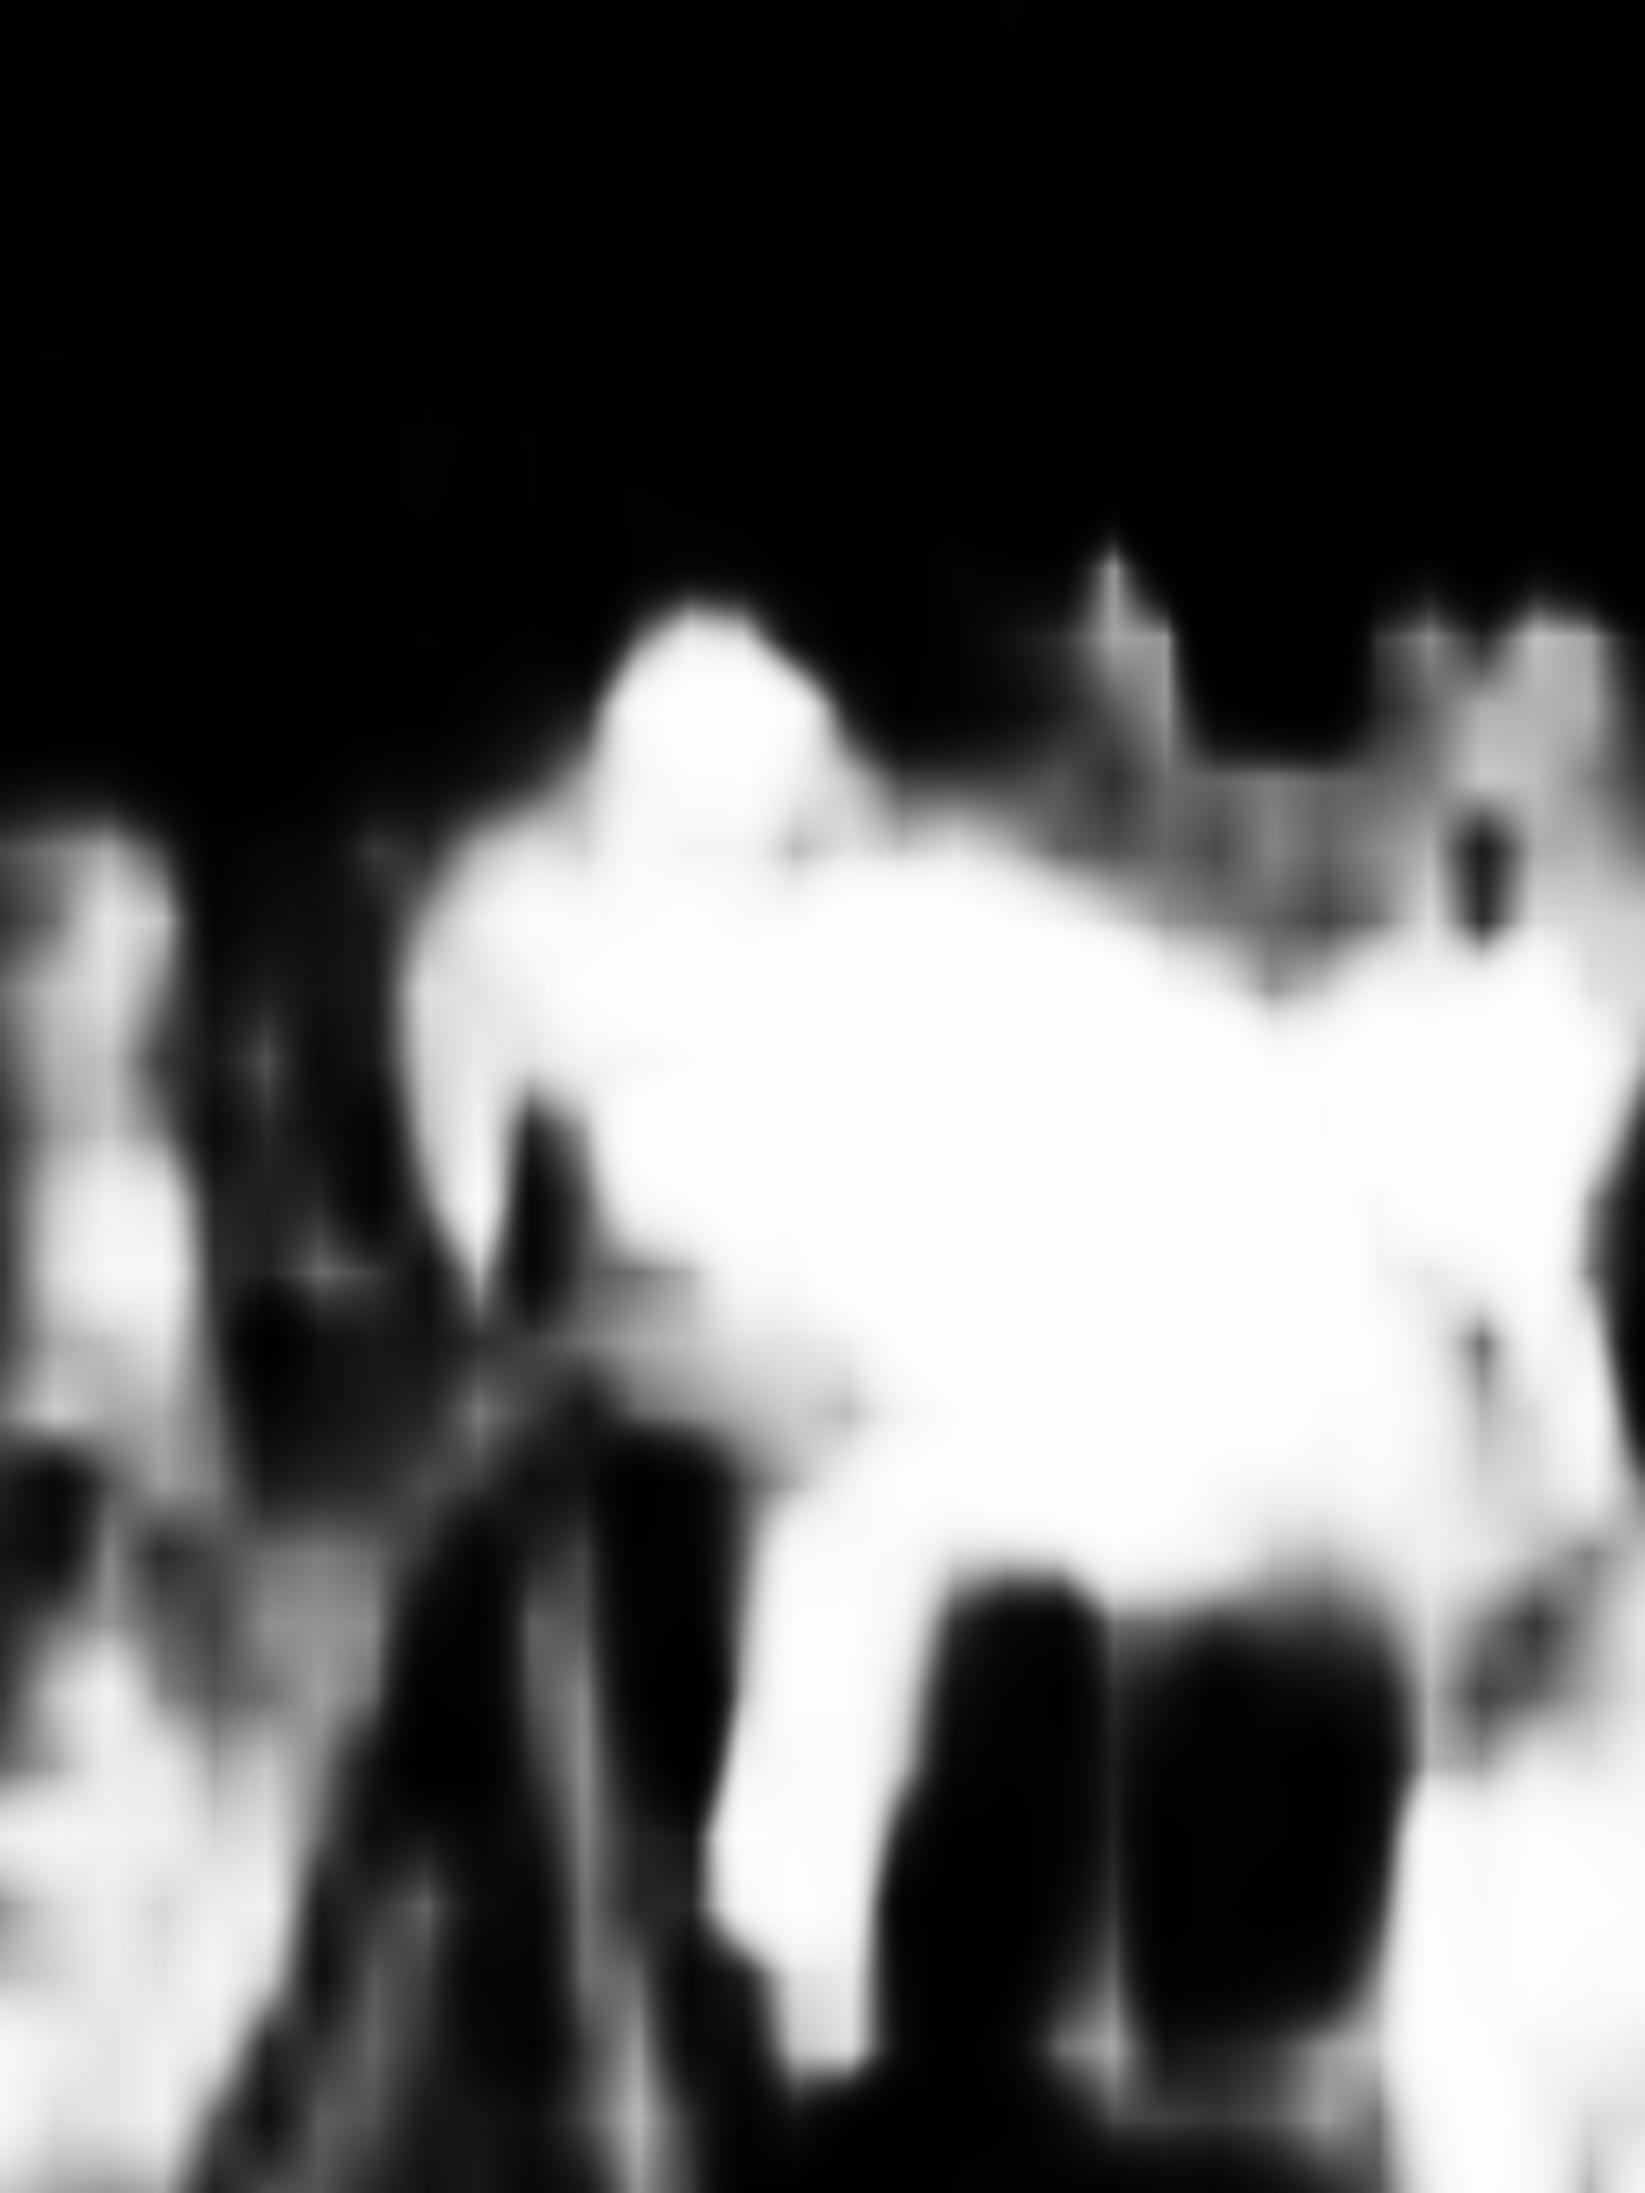
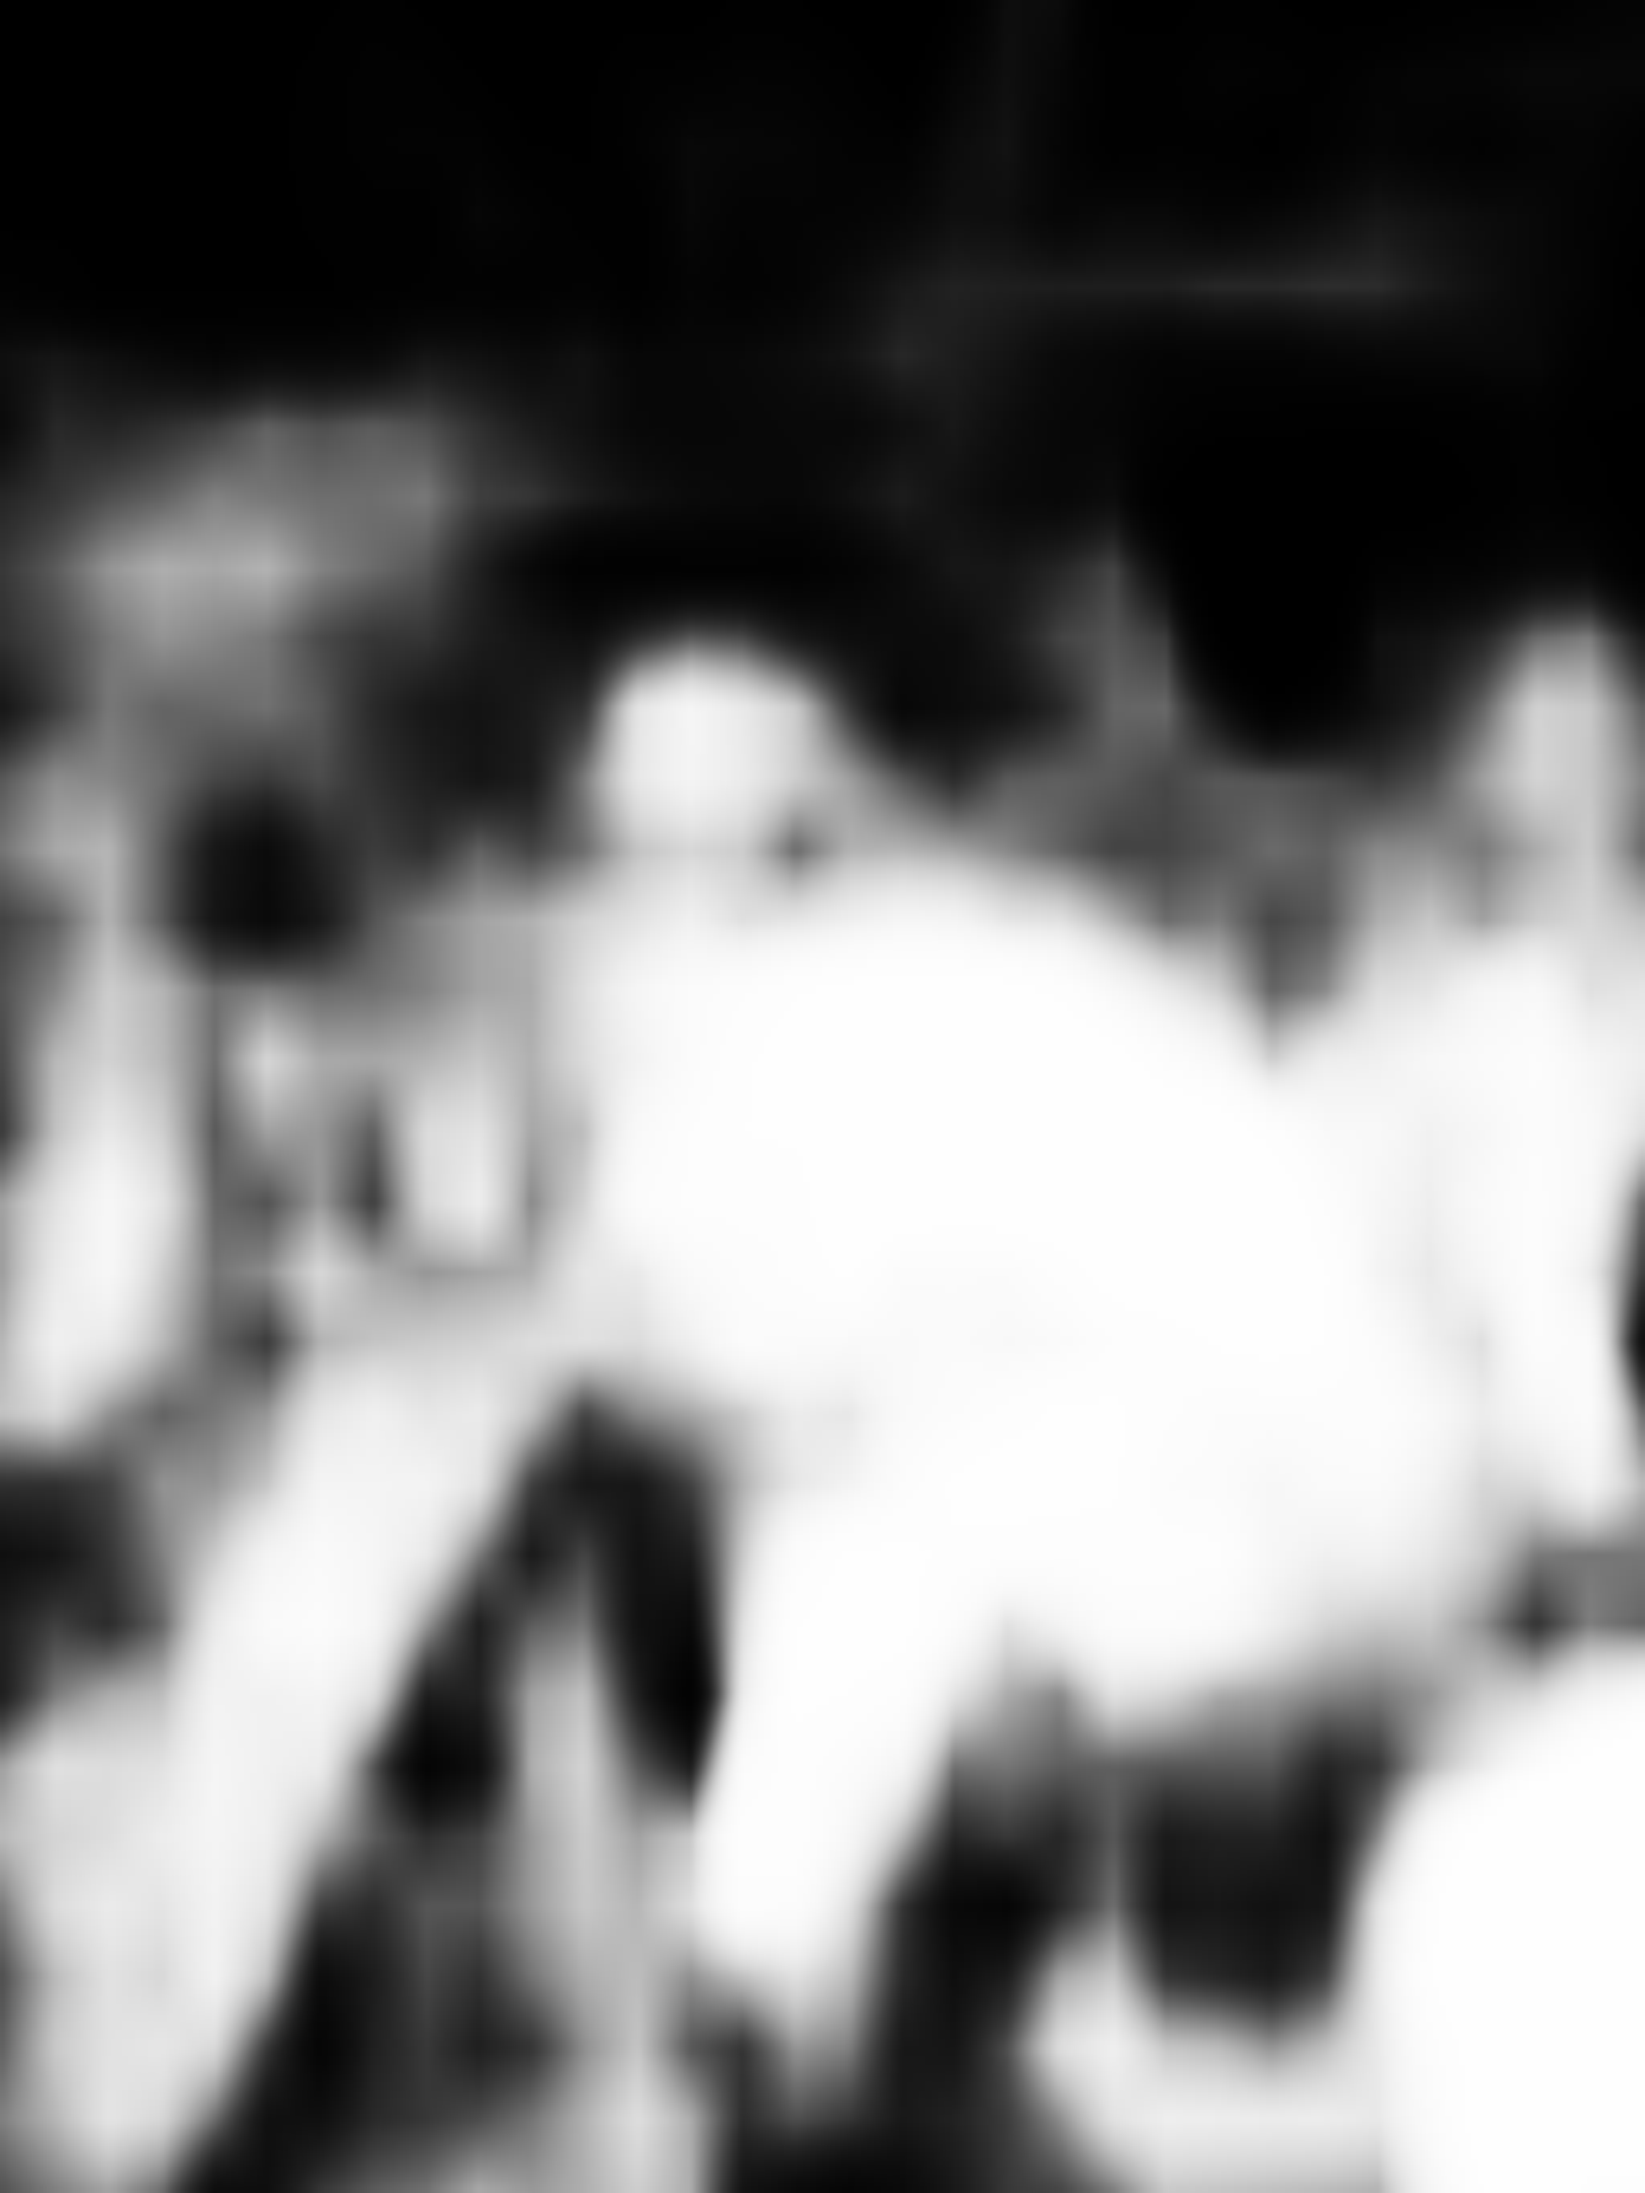
V2.0
加入正扣反扣和将扣去部分变为黑色或白色的功能

diff --git a/output.py b/output.py
@@ -1,18 +1,69 @@
 import os
 import cv2
 import numpy as np
+import json
+with open("data.json", "r") as f: # 打开json文件
+    data = json.load(f) # 读取并解码json数据
+    
 #im1 原图  im2 mask图(背景是黑色，前景是白色)
 im1_path = 'input'
 im2_path = 'outmask'
+print(data["color"])
 
-num = len(os.listdir(im1_path))
-for i in range(num):
 
-    img1 = cv2.imread(os.path.join(im1_path, os.listdir(im1_path)[i]))
-    img2 = cv2.imread(os.path.join(im2_path,os.listdir(im2_path)[i]), cv2.IMREAD_GRAYSCALE)
-    h,w,c = img1.shape
-    img3 = np.zeros((h,w,4))
-    img3[:,:,0:3] = img1
-    img3[:,:,3] = img2
-    #这里命名随意，但是要注意使用png格式
-    cv2.imwrite('output/' + '%s' % os.listdir(im1_path)[i], img3)
+#透明
+if(data["color"]=="none"):
+    num = len(os.listdir(im1_path))
+    for i in range(num):
+        img1 = cv2.imread(os.path.join(im1_path, os.listdir(im1_path)[i]))
+        img2 = cv2.imread(os.path.join(im2_path, os.listdir(im2_path)[i]), cv2.IMREAD_GRAYSCALE)
+        h, w, c = img1.shape
+        # 反转mask图
+        if (data["back"] == "true"):
+            img2 = cv2.bitwise_not(img2)
+        img3 = np.zeros((h, w, 4))
+        img3[:, :, 0:3] = img1
+        img3[:, :, 3] = img2
+        # 这里命名随意，但是要注意使用png格式
+        cv2.imwrite('output/' + '%s' % os.listdir(im1_path)[i], img3)
+
+#黑
+if(data["color"]=="black"):
+    for filename in os.listdir(im1_path):
+        if filename.endswith(".png"):
+            # 读取原图
+            person = cv2.imread(os.path.join(im1_path, filename))
+            person_ori = person.copy()
+    for filename in os.listdir(im1_path):
+        if filename.endswith(".png"):
+            # 读取mask图
+            mask = cv2.imread(os.path.join(im2_path, filename), cv2.IMREAD_GRAYSCALE)
+        if(data["back"]=="true"):
+            mask = cv2.bitwise_not(mask)
+    # 将mask图转化为灰度图
+    mask = mask / 255.0
+    # 将人像抠出来
+    person[:, :, 0] = person[:, :, 0] * mask
+    person[:, :, 1] = person[:, :, 1] * mask
+    person[:, :, 2] = person[:, :, 2] * mask
+    # 用相同的文件名保存为新的图片
+    cv2.imwrite(os.path.join("output", filename), person)
+
+#白
+if(data["color"]=="white"):
+    num = len(os.listdir(im1_path))
+    for i in range(num):
+        img1 = cv2.imread(os.path.join(im1_path, os.listdir(im1_path)[i]))
+        img2 = cv2.imread(os.path.join(im2_path,os.listdir(im2_path)[i]), cv2.IMREAD_GRAYSCALE)
+        h,w,c = img1.shape
+        # 反转mask图
+        if (data["back"] == "true"):
+            img2 = cv2.bitwise_not(img2)
+        # 用255减去反转后的mask图
+        img3 = 255 - img2
+        # 把mask图扩展到三通道
+        img3 = cv2.cvtColor(img3, cv2.COLOR_GRAY2BGR)
+        # 把mask图和原图相加
+        img4 = cv2.add(img1, img3)
+        # 这里命名随意，但是要注意使用png格式
+        cv2.imwrite('output/' + '%s' % os.listdir(im1_path)[i], img4)
